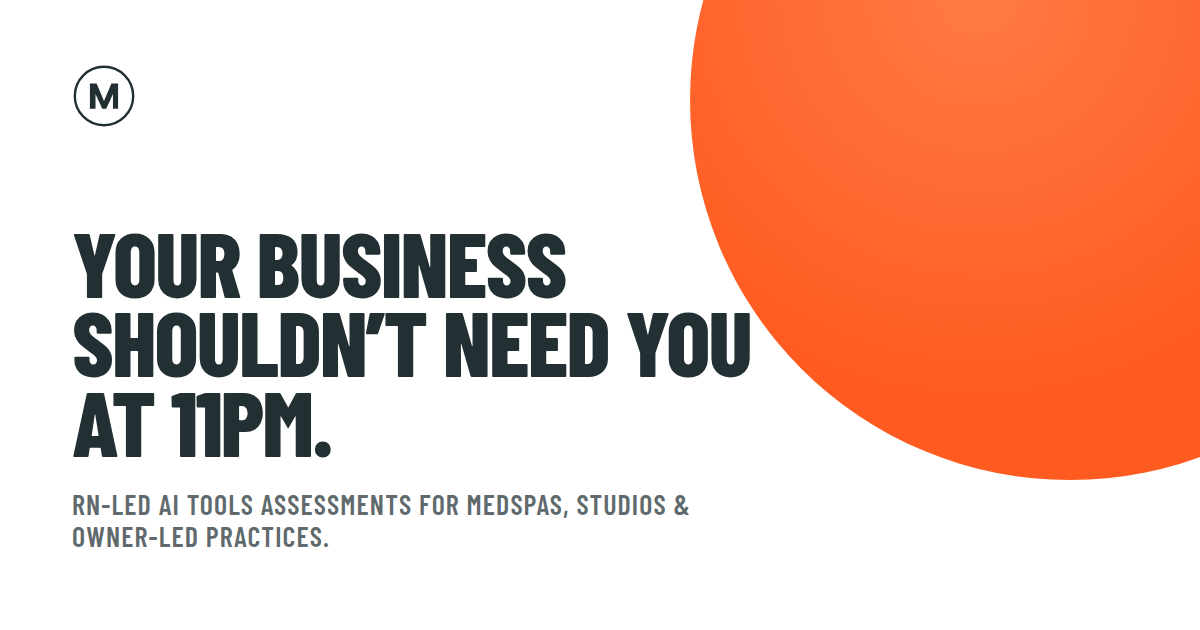
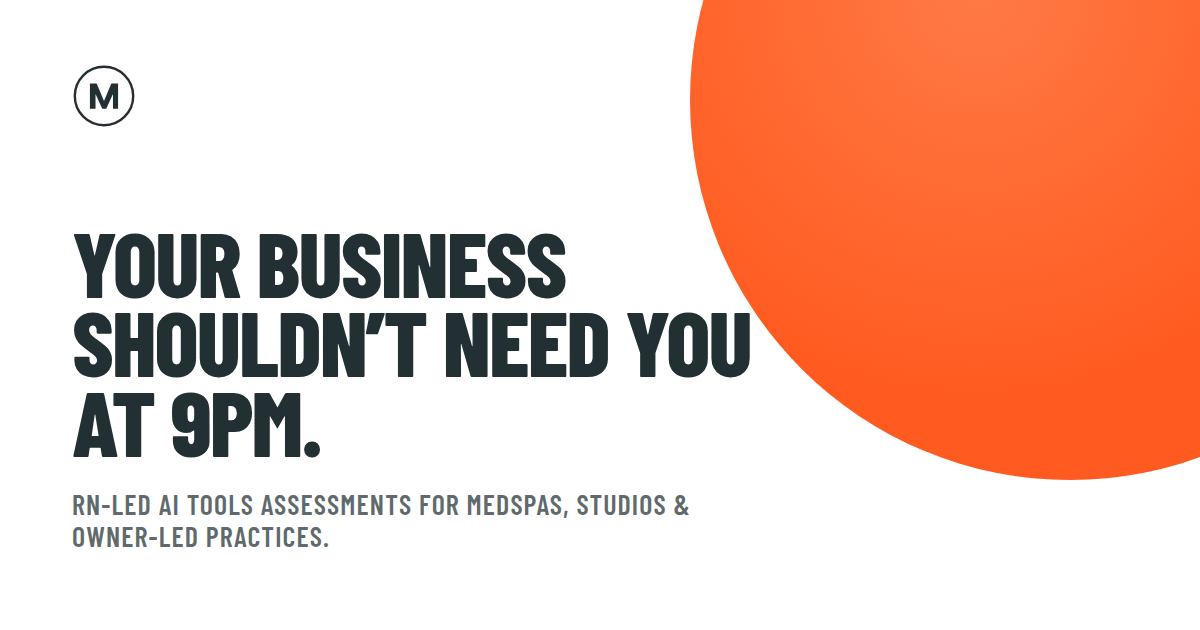
Copy: 11pm to 9pm

Changed region(s): [[0.1233, 0.6032, 0.2775, 0.7238]]

diff --git a/index.html b/index.html
@@ -4,7 +4,7 @@
   <meta charset="utf-8">
   <meta name="viewport" content="width=device-width, initial-scale=1">
   <title>Marcha — AI tools assessments for medspas &amp; studios</title>
-  <meta name="description" content="Your business shouldn’t need you at 11pm. Marcha finds the money medspas, studios, and practices lose to missed calls, no-shows, and “I’ll book later,” then prescribes the fix. RN-led.">
+  <meta name="description" content="Your business shouldn’t need you at 9pm. Marcha finds the money medspas, studios, and practices lose to missed calls, no-shows, and “I’ll book later,” then prescribes the fix. RN-led.">
   <meta name="author" content="Marcha">
   <meta name="theme-color" content="#FFFFFF">
   <meta name="color-scheme" content="light">
@@ -17,12 +17,12 @@
   <meta property="og:image" content="https://quinnkatz.github.io/Marcha---Ozempic-for-Admin-Bloat/assets/og.png">
   <meta property="og:image:width" content="1200">
   <meta property="og:image:height" content="630">
-  <meta property="og:image:alt" content="Marcha: Your business shouldn’t need you at 11pm. RN-led AI tools assessments for medspas and studios.">
+  <meta property="og:image:alt" content="Marcha: Your business shouldn’t need you at 9pm. RN-led AI tools assessments for medspas and studios.">
   <meta name="twitter:card" content="summary_large_image">
   <meta name="twitter:title" content="Marcha — AI tools assessments for medspas &amp; studios">
   <meta name="twitter:description" content="Fully booked isn’t fully paid. We find where the money goes and prescribe the tools that stop it. RN-led. Off-the-shelf only.">
   <meta name="twitter:image" content="https://quinnkatz.github.io/Marcha---Ozempic-for-Admin-Bloat/assets/og.png">
-  <meta name="twitter:image:alt" content="Marcha: Your business shouldn’t need you at 11pm. RN-led AI tools assessments for medspas and studios.">
+  <meta name="twitter:image:alt" content="Marcha: Your business shouldn’t need you at 9pm. RN-led AI tools assessments for medspas and studios.">
   <link rel="icon" href="assets/favicon.svg" type="image/svg+xml">
   <link rel="icon" href="assets/favicon-32.png" type="image/png" sizes="32x32">
   <link rel="apple-touch-icon" href="assets/apple-touch-icon.png">
@@ -142,7 +142,7 @@
           <div class="hero-copy-in">
             <p class="eyebrow reveal">Welcome to <span data-brand>Marcha</span></p>
             <p class="hero-kicker reveal">For medspas, studios &amp; owner-led practices</p>
-            <h1 id="hero-heading" class="display reveal">Your business<br>shouldn’t need you<br>at 11pm.</h1>
+            <h1 id="hero-heading" class="display reveal">Your business<br>shouldn’t need you<br>at 9pm.</h1>
             <div class="hero-rule reveal">
               <span class="rule" aria-hidden="true"></span>
               <p>Missed call. 4:30 no-show. “I’ll book later.” That’s all money.</p>
@@ -175,7 +175,7 @@
               <span class="browser-url">marcha.com / the-leak</span>
             </div>
             <div class="browser-screen">
-              <p class="mock-kicker">Meanwhile, at 11pm</p>
+              <p class="mock-kicker">Meanwhile, at 9pm</p>
               <h2>Where the money went</h2>
               <ul class="mock-rows">
                 <li>
@@ -204,7 +204,7 @@
 
           <aside class="hours-badge" data-py="badge">
             <p>Tonight</p>
-            <strong>11pm</strong>
+            <strong>9pm</strong>
             <span>you, still answering DMs</span>
           </aside>
 
@@ -392,7 +392,7 @@
                       <ul class="sheet-notes">
                         <li><b>Owner</b><span>We’re slammed. The account says otherwise.</span></li>
                         <li><b>Desk</b><span>The waitlist is a group text.</span></li>
-                        <li><b>11pm</b><span>Still answering DMs. Obviously.</span></li>
+                        <li><b>9pm</b><span>Still answering DMs. Obviously.</span></li>
                       </ul>
                       <p class="sheet-foot">We listen. We don’t demo.</p>
                     </section>
@@ -425,7 +425,7 @@
                         <li><span>Day 3</span> Send rebook reminders to clients who drifted.</li>
                         <li><span>Day 4</span> Review call. Keep what the team will actually use.</li>
                       </ol>
-                      <p class="sheet-foot">After that, it runs without you. Including at 11pm.</p>
+                      <p class="sheet-foot">After that, it runs without you. Including at 9pm.</p>
                     </section>
                   </div>
                   <div class="device-bar" aria-hidden="true"><span data-device-thumb></span></div>
@@ -664,7 +664,7 @@
           </div>
           <div class="field">
             <label for="note">Anything we should know? <span class="optional">(optional)</span></label>
-            <textarea id="note" name="note" rows="3" aria-required="false" placeholder="Team size, software, what keeps you up at 11pm…"></textarea>
+            <textarea id="note" name="note" rows="3" aria-required="false" placeholder="Team size, software, what keeps you up at 9pm…"></textarea>
           </div>
           <div class="hp" aria-hidden="true">
             <label for="company">Company</label>
@@ -690,7 +690,7 @@
           </span>
           <span class="logo-word" data-brand>Marcha</span>
         </a>
-        <p data-brand-tagline>AI tools assessments for medspas, studios, and practices. So you’re not needed at 11pm.</p>
+        <p data-brand-tagline>AI tools assessments for medspas, studios, and practices. So you’re not needed at 9pm.</p>
       </div>
       <div class="footer-meta">
         <a href="mailto:hello@marcha.com" data-brand-email>hello@marcha.com</a>

diff --git a/404.html b/404.html
@@ -79,7 +79,7 @@
     </svg>
     <div class="label">404 · Marcha</div>
     <h1>This page isn’t on the plan.</h1>
-    <p>Neither is answering DMs at 11pm. Head back and we’ll fix that.</p>
+    <p>Neither is answering DMs at 9pm. Head back and we’ll fix that.</p>
     <a class="home" id="home-link" href="index.html">Back to Marcha →</a>
   </div>
   <script>

diff --git a/brand.js b/brand.js
@@ -5,7 +5,7 @@
 window.REFIT_BRAND = {
   name: "Marcha",
   email: "hello@marcha.com",
-  tagline: "AI tools assessments for medspas, studios, and practices. So you’re not needed at 11pm.",
+  tagline: "AI tools assessments for medspas, studios, and practices. So you’re not needed at 9pm.",
 };
 
 document.addEventListener("DOMContentLoaded", () => {
